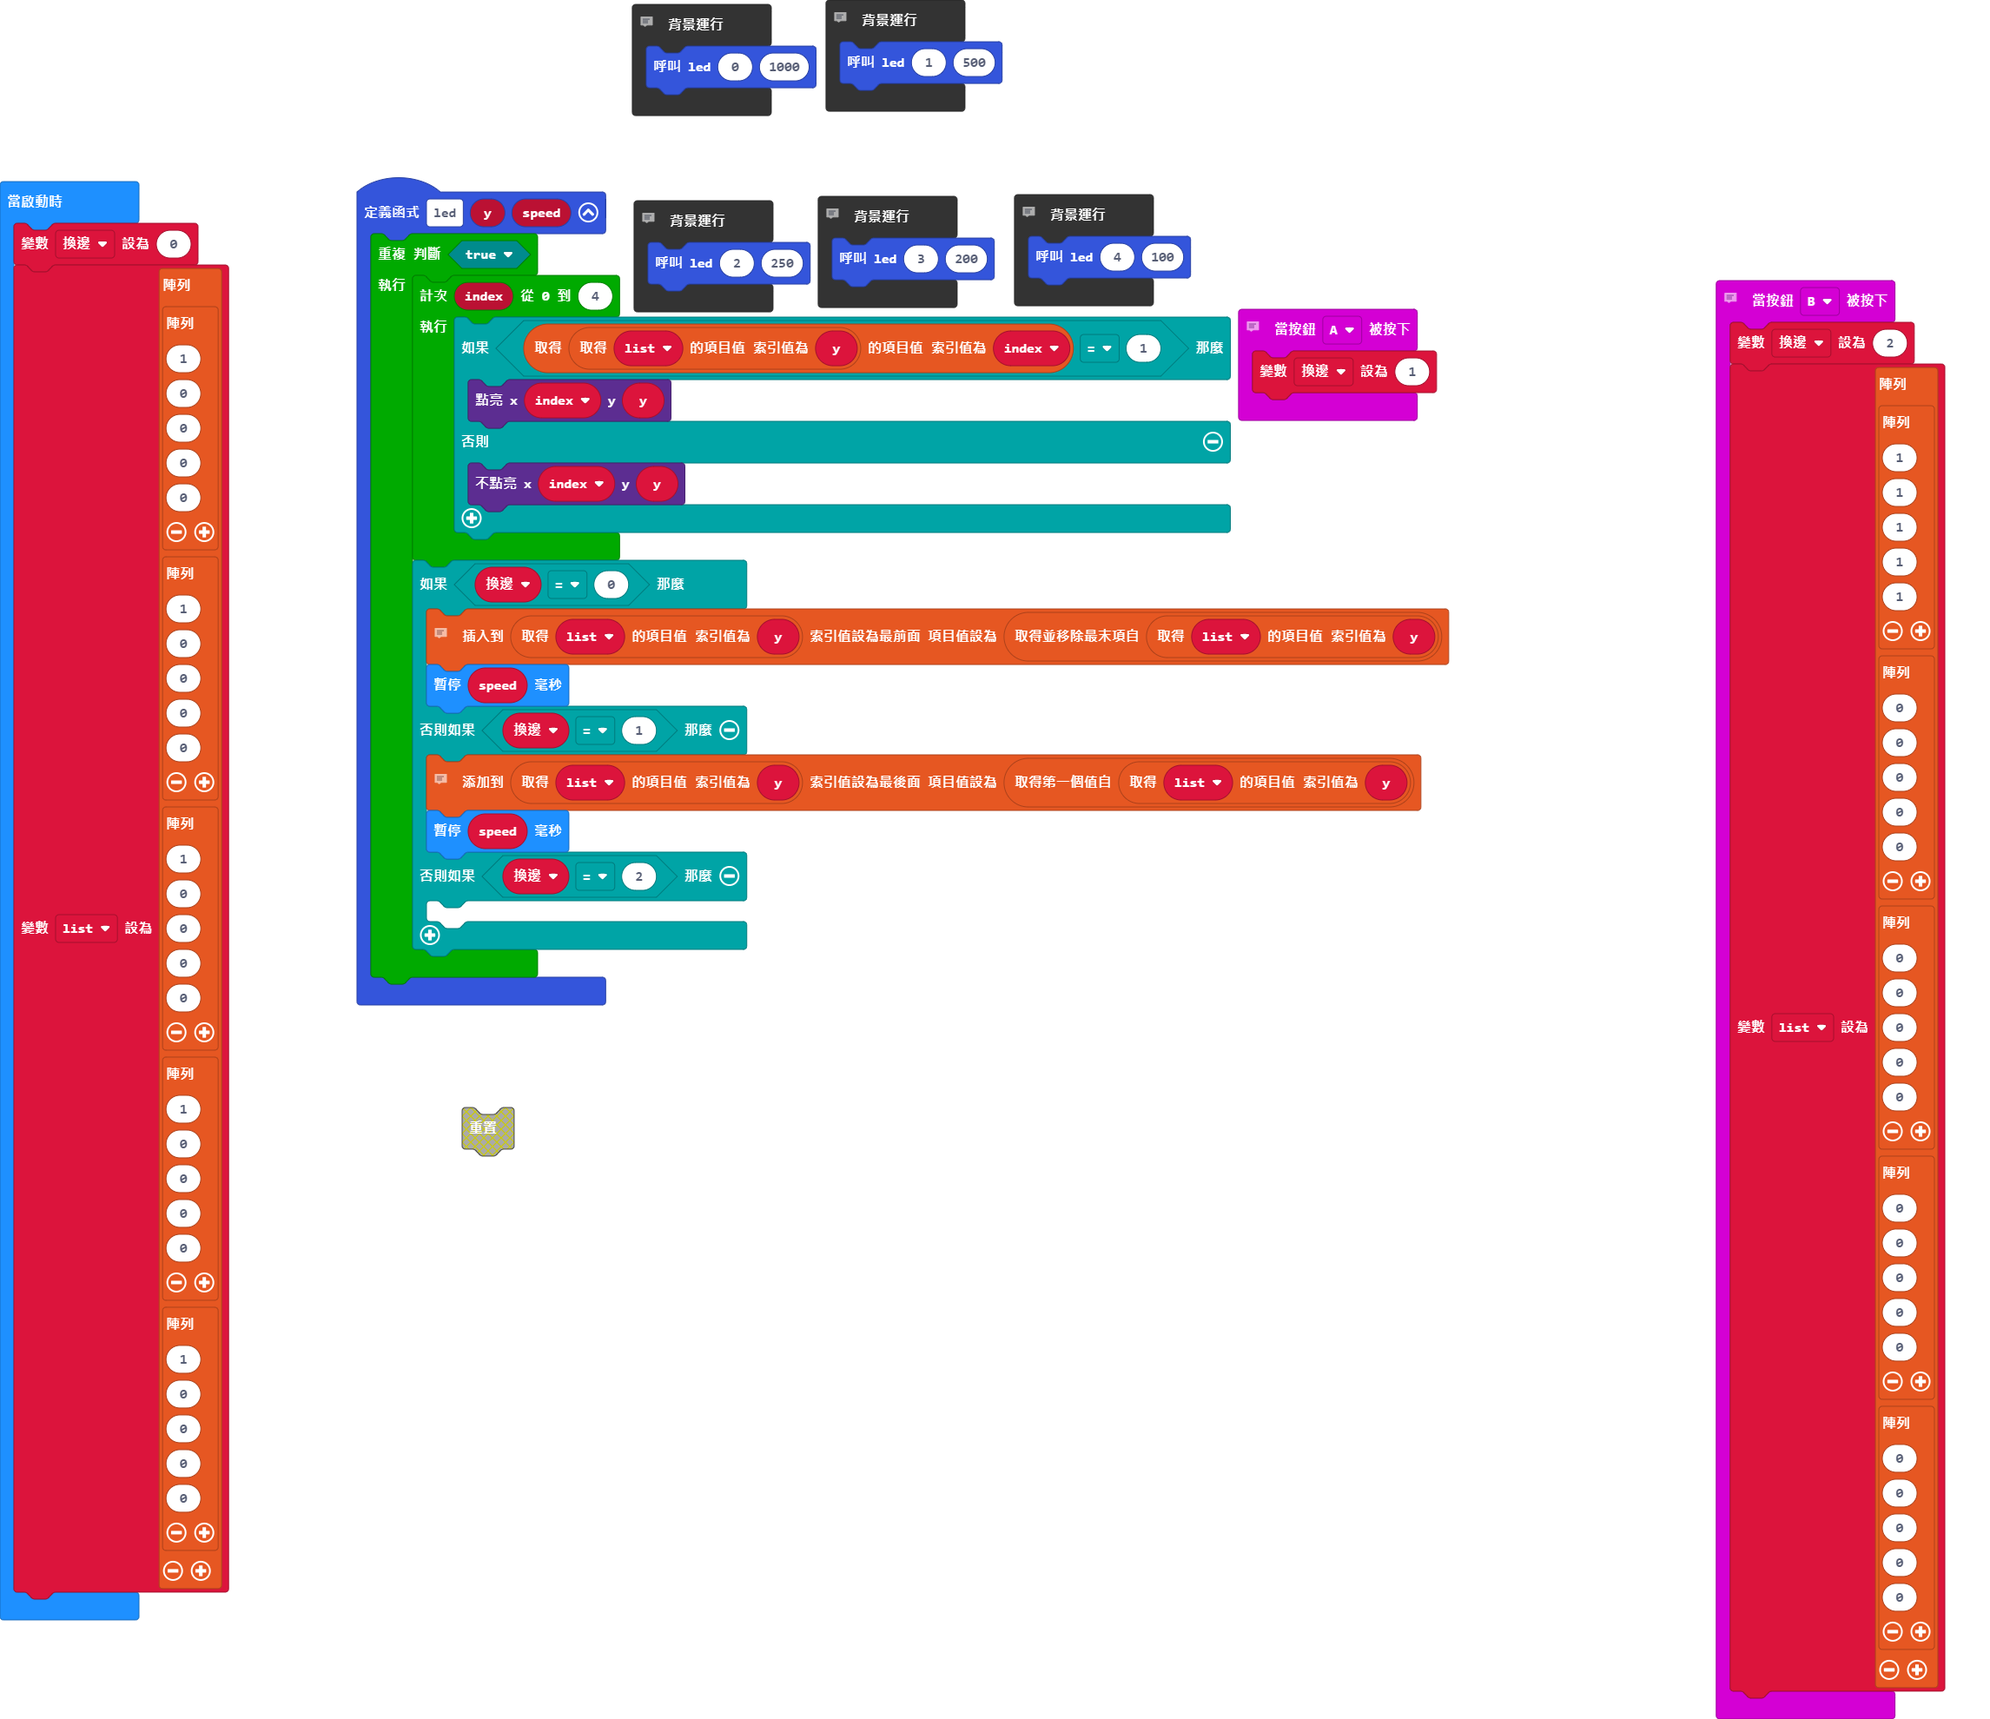
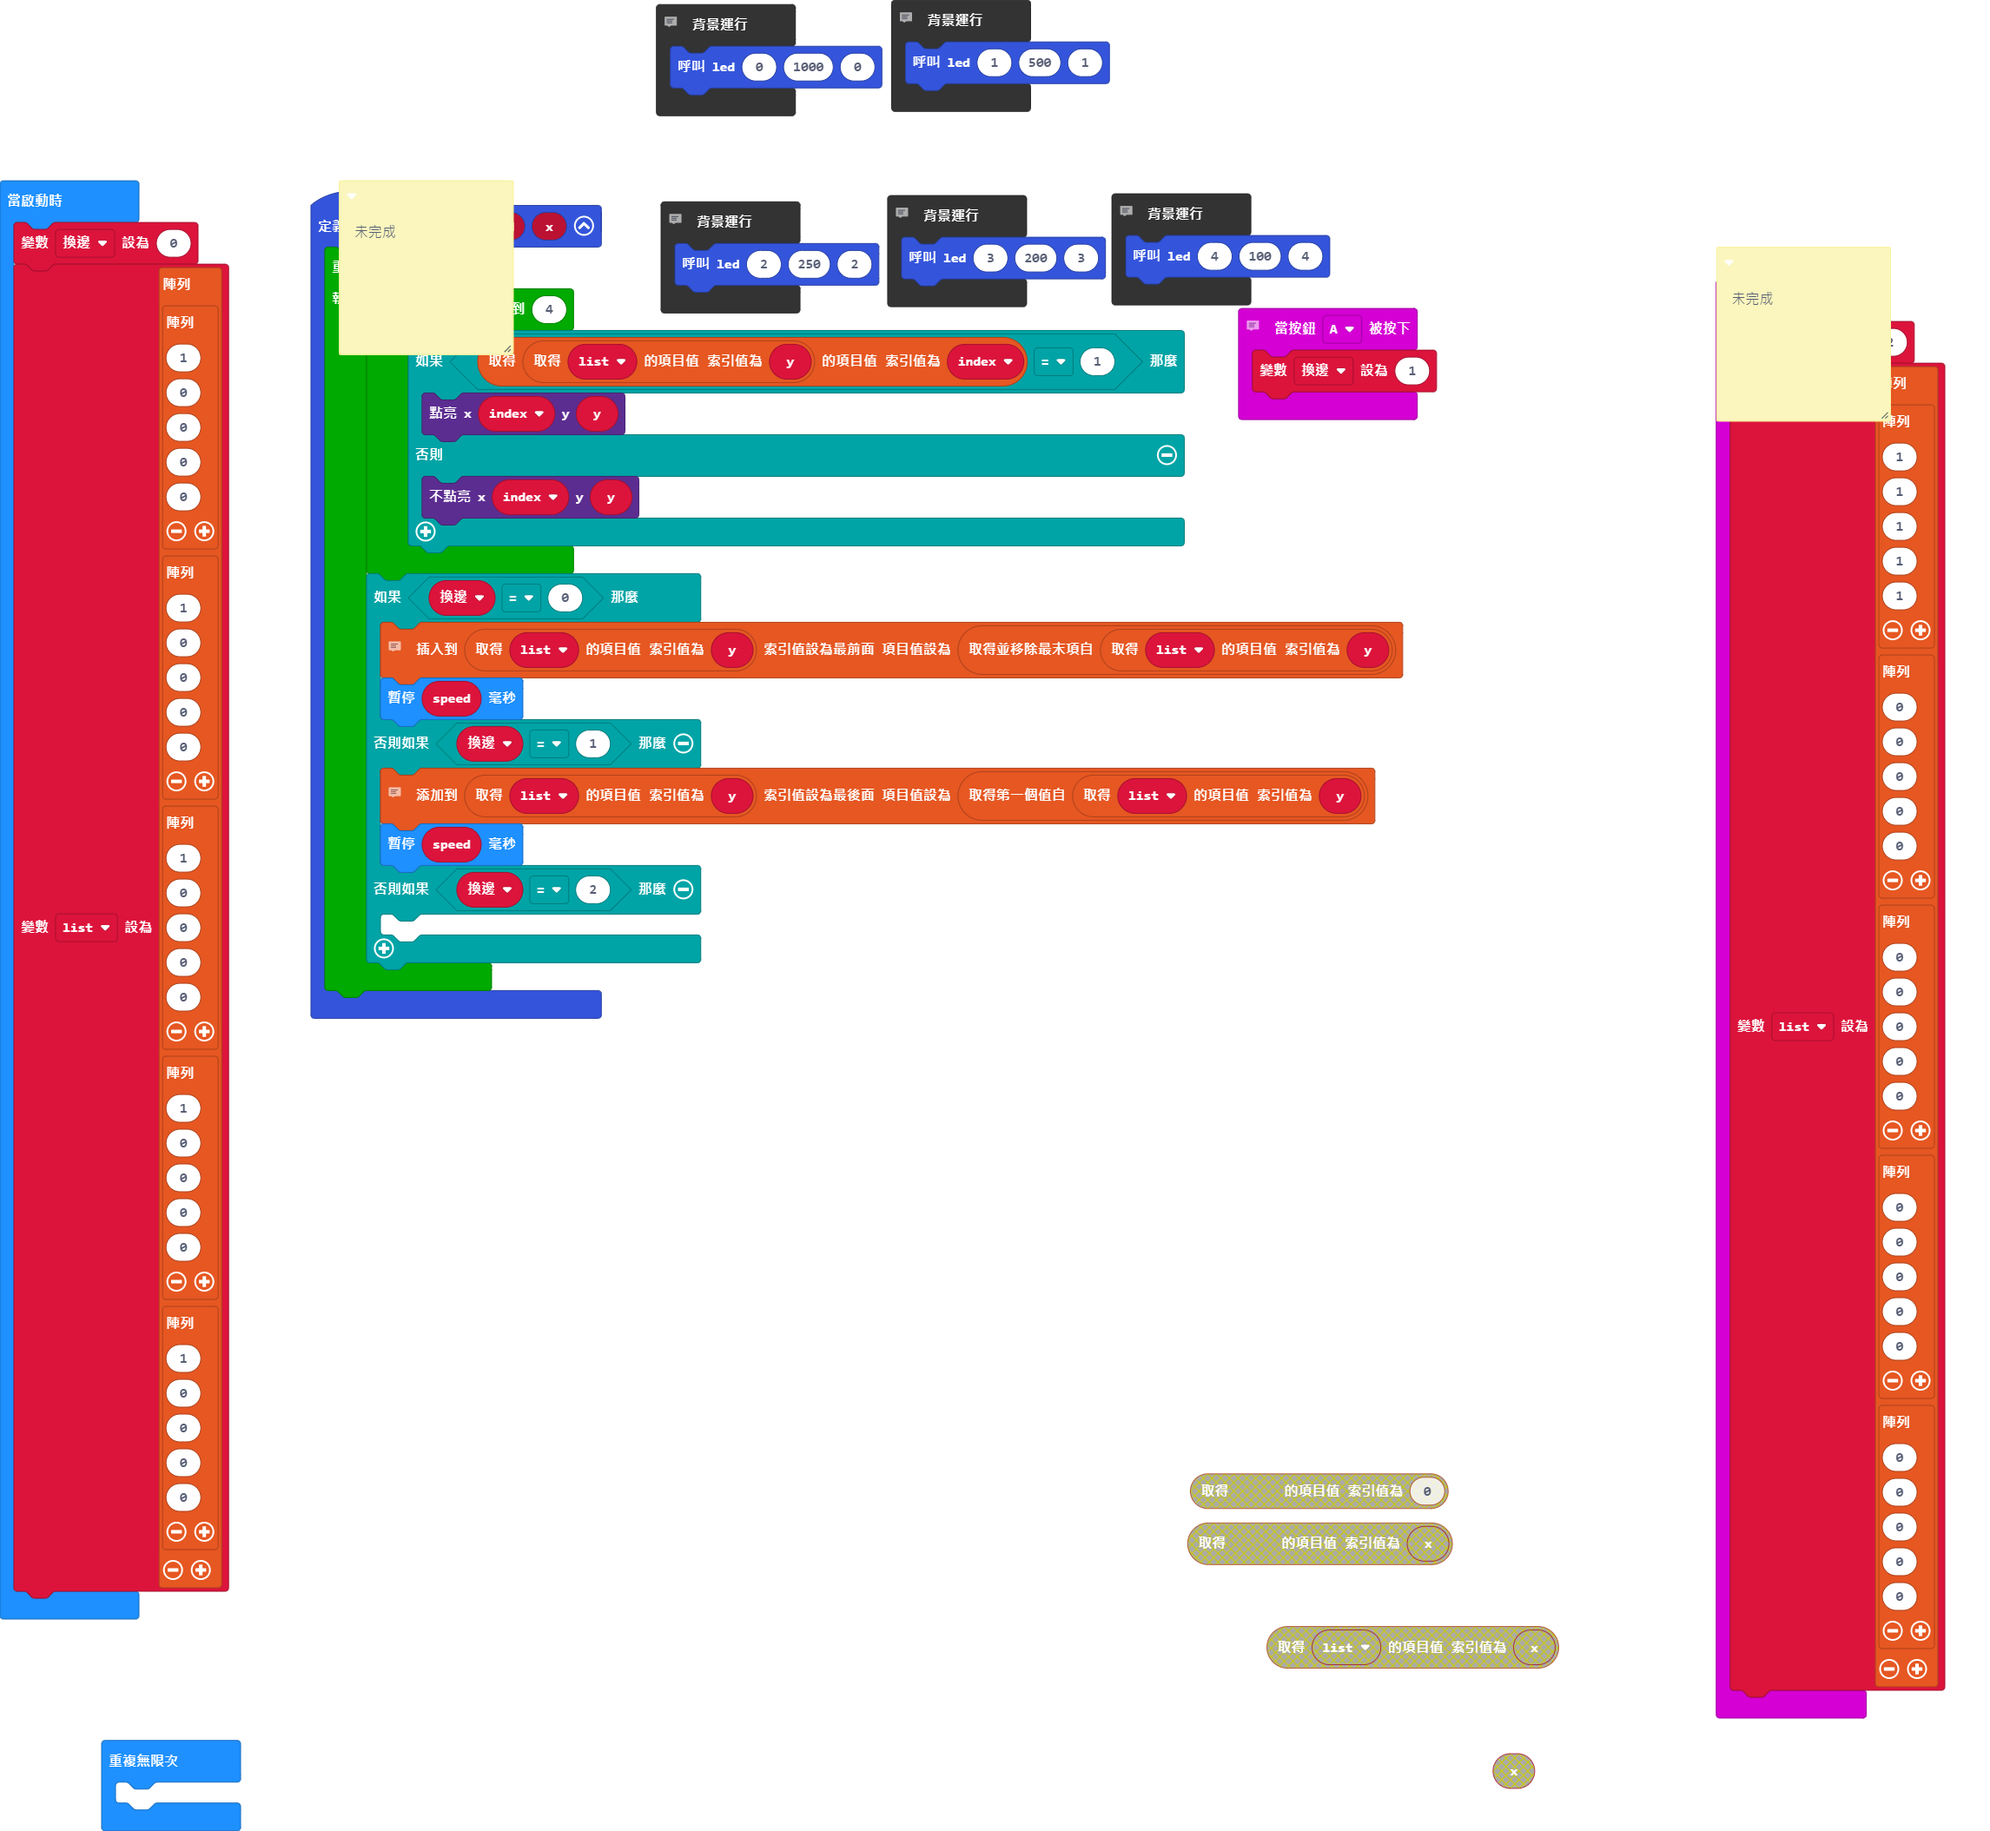
更新 main.blocks, main.ts

diff --git a/main.ts b/main.ts
@@ -1,4 +1,7 @@
-function led2 (y: number, speed: number) {
+/**
+ * 未完成
+ */
+function led2 (y: number, speed: number, x: number) {
     while (true) {
         for (let index = 0; index <= 4; index++) {
             if (list[y][index] == 1) {
@@ -25,7 +28,9 @@ function led2 (y: number, speed: number) {
 input.onButtonPressed(Button.A, function () {
     換邊 = 1
 })
-// 從上而下
+/**
+ * 未完成
+ */
 input.onButtonPressed(Button.B, function () {
     換邊 = 2
     list = [
@@ -106,23 +111,26 @@ list = [
 0
 ]
 ]
+basic.forever(function () {
+	
+})
 // 第一排的燈
 control.inBackground(function () {
-    led2(0, 1000)
+    led2(0, 1000, 0)
 })
 // 第二排的燈
 control.inBackground(function () {
-    led2(1, 500)
+    led2(1, 500, 1)
 })
 // 第三排的燈
 control.inBackground(function () {
-    led2(2, 250)
+    led2(2, 250, 2)
 })
 // 第四排的燈
 control.inBackground(function () {
-    led2(3, 200)
+    led2(3, 200, 3)
 })
 // 第五排的燈
 control.inBackground(function () {
-    led2(4, 100)
+    led2(4, 100, 4)
 })
